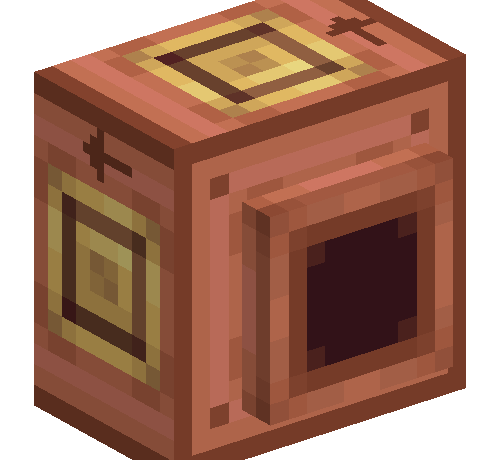
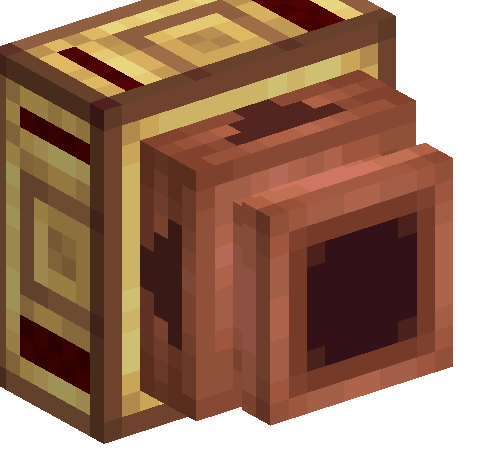
Reverse transmitter triangle marking without changing filter indicators

diff --git a/tools/flip-transmitter-arrow.py b/tools/flip-transmitter-arrow.py
@@ -1,0 +1,12 @@
+"""Reverse only the lower atlas arrow panel; preserve filter and red rails."""
+from pathlib import Path
+from PIL import Image
+root=Path(__file__).resolve().parents[1]
+folder=root/'src/main/resources/assets/ccd/textures/block/fluid_transmitter'
+for name in ('side','side_unpowered','side_powered'):
+    path=folder/(name+'.png')
+    image=Image.open(path).convert('RGBA')
+    # The small neck samples atlas rows 10..13, columns 2..13.
+    panel=image.crop((2,10,14,14)).transpose(Image.Transpose.ROTATE_180)
+    image.paste(panel,(2,10))
+    image.save(path)
